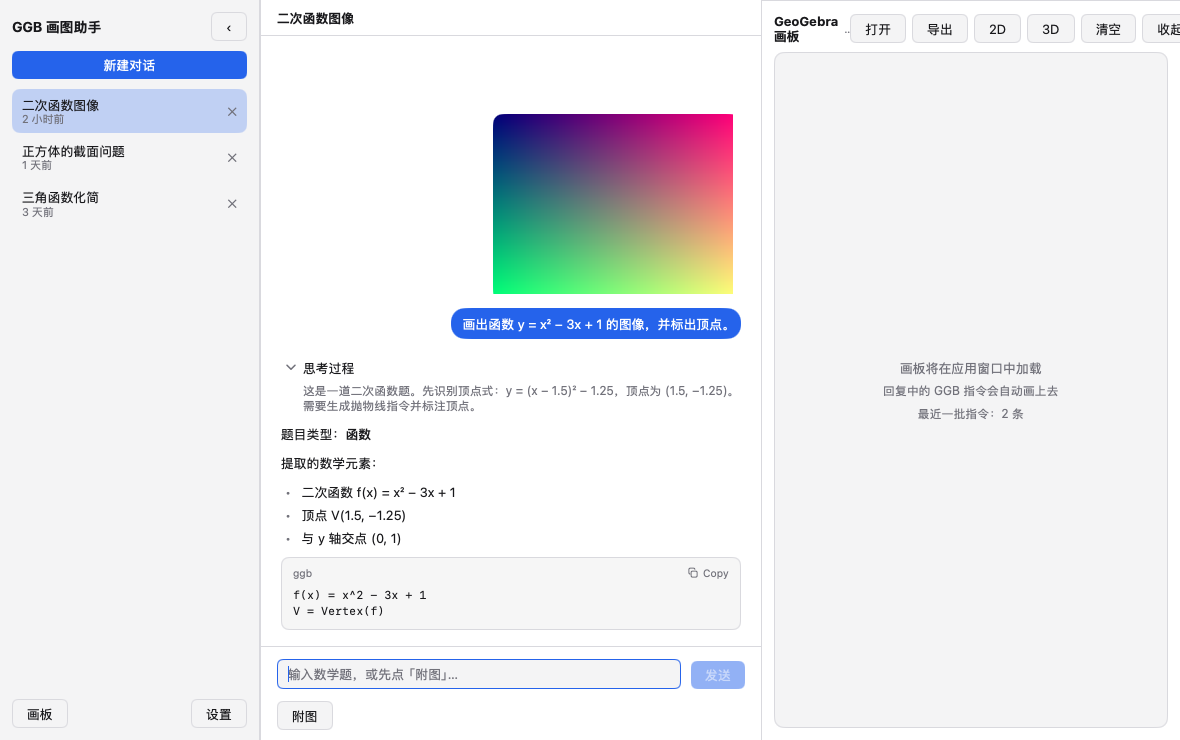
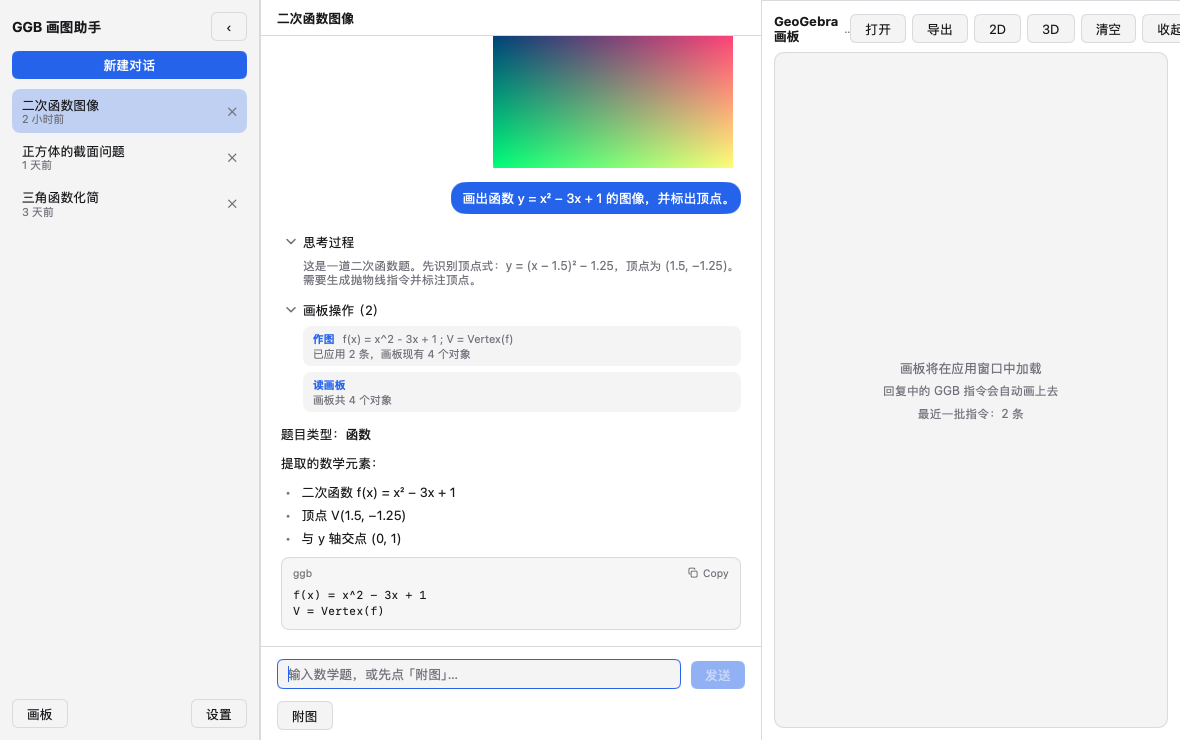
feat(desktop): show board tool calls in the thread
The ReAct loop executed tools silently: the thread only showed the
thinking block and the final text, so a run that drew on the board looked
like plain prose. Every tool call is now recorded (tool name, argument
summary, result summary) and rendered as a collapsible "board actions"
block under the thinking block: the tool label, the commands it ran and
what the board reported back (applied count, failures, object count).
Failures are flagged in the danger colour.

Changed region(s): [[0.2441, 0.0311, 0.6407, 0.5595]]

diff --git a/desktop/view_model.go b/desktop/view_model.go
@@ -380,7 +380,10 @@ func (a *app) streamChat(userText string, reply *uiMsg) {
 		}
 		messages = append(messages, OAMessage{Role: "assistant", Content: assistantContent, ToolCalls: res.ToolCalls})
 		for _, tc := range res.ToolCalls {
+			step := toolStep{Name: tc.Function.Name, Args: summarizeToolArgs(tc.Function.Arguments)}
 			result := a.execTool(tc)
+			step.Result, step.Failed = summarizeToolResult(result)
+			a.mutate(func() { reply.tools = append(reply.tools, step) })
 			messages = append(messages, OAMessage{Role: "tool", ToolCallID: tc.ID, Name: tc.Function.Name, Content: result})
 		}
 	}
@@ -393,6 +396,57 @@ func (a *app) streamChat(userText string, reply *uiMsg) {
 		a.applyHTMLFence(reply)
 		a.saveAll()
 	})
+}
+
+// summarizeToolArgs 把工具参数压成一行可读摘要。
+func summarizeToolArgs(argsJSON string) string {
+	var args struct {
+		Commands    []string `json:"commands"`
+		Perspective string   `json:"perspective"`
+	}
+	if err := json.Unmarshal([]byte(argsJSON), &args); err != nil {
+		return ""
+	}
+	parts := make([]string, 0, len(args.Commands))
+	for _, c := range args.Commands {
+		parts = append(parts, c)
+	}
+	s := strings.Join(parts, " ; ")
+	if args.Perspective == "AT" {
+		s = "[3D] " + s
+	}
+	if len([]rune(s)) > 90 {
+		s = string([]rune(s)[:90]) + "…"
+	}
+	return s
+}
+
+// summarizeToolResult 把工具返回压成一行摘要。
+func summarizeToolResult(result string) (string, bool) {
+	var r struct {
+		Applied int      `json:"applied"`
+		Failed  []string `json:"failed"`
+		Objects int      `json:"objects"`
+		Count   int      `json:"objectCount"`
+		Error   string   `json:"error"`
+	}
+	if err := json.Unmarshal([]byte(result), &r); err != nil {
+		return result, false
+	}
+	if r.Error != "" {
+		return r.Error, true
+	}
+	out := "已应用 " + strconv.Itoa(r.Applied) + " 条"
+	if len(r.Failed) > 0 {
+		out += "，失败 " + strconv.Itoa(len(r.Failed)) + " 条"
+	}
+	if r.Objects > 0 {
+		out += "，画板现有 " + strconv.Itoa(r.Objects) + " 个对象"
+	}
+	if r.Count > 0 {
+		out = "画板共 " + strconv.Itoa(r.Count) + " 个对象"
+	}
+	return out, len(r.Failed) > 0
 }
 
 // execTool 执行模型请求的一个画板工具，返回给模型的 JSON 结果。

diff --git a/desktop/state.go b/desktop/state.go
@@ -199,12 +199,36 @@ type uiMsg struct {
 
 	step      string // 进行中的状态标签
 	done      bool
-	open      bool      // 思考块默认展开
-	started   time.Time // 回复开始时间
-	usedTools bool      // 本条回复用过画板工具（围栏兜底跳过）
+	open      bool       // 思考块默认展开
+	toolsOpen bool       // 工具面板默认展开
+	started   time.Time  // 回复开始时间
+	usedTools bool       // 本条回复用过画板工具（围栏兜底跳过）
+	tools     []toolStep // 画板工具调用记录
 
 	bitmap  *ui.Bitmap // 用户消息的图片（本地预览）
 	dataURL string     // 发给视觉模型的 data URL（不落盘）
+}
+
+// toolStep 是一次画板工具调用的记录，显示在回复里。
+type toolStep struct {
+	Name   string // 工具名
+	Args   string // 参数摘要
+	Result string // 执行结果摘要
+	Failed bool
+}
+
+// toolLabel 给工具名一个中文说法。
+func toolLabel(name string) string {
+	switch name {
+	case "geogebra_run":
+		return "作图"
+	case "geogebra_read":
+		return "读画板"
+	case "geogebra_export":
+		return "导出"
+	default:
+		return name
+	}
 }
 
 // stepLabel 保留 streaming 提示的措辞。

diff --git a/desktop/view.go b/desktop/view.go
@@ -329,6 +329,30 @@ func (a *app) message(c *ui.Context, t *ui.Theme, m *uiMsg) {
 				ui.Text(c, m.thinking).Selectable().FontSize(12).TextColor(t.TextMuted)
 			})
 		}
+		if len(m.tools) > 0 {
+			label := "画板操作（" + strconv.Itoa(len(m.tools)) + "）"
+			ui.Collapsible(c, label, &m.toolsOpen, func() {
+				ui.Column(c).Gap(6).Children(func() {
+					for _, s := range m.tools {
+						ui.Column(c).Gap(2).Padding(6, 10).Radius(8).Background(t.Surface).Children(func() {
+							ui.Row(c).Gap(8).AlignItems(ui.Center).Children(func() {
+								badge := t.Accent
+								if s.Failed {
+									badge = t.Danger
+								}
+								ui.Text(c, toolLabel(s.Name)).FontSize(11).Bold().TextColor(badge)
+								if s.Args != "" {
+									ui.Text(c, s.Args).FontSize(11).TextColor(t.TextMuted).Grow(1)
+								}
+							})
+							if s.Result != "" {
+								ui.Text(c, s.Result).FontSize(11).TextColor(t.TextMuted)
+							}
+						})
+					}
+				})
+			})
+		}
 		if m.errText != "" {
 			ui.Text(c, m.errText).Selectable().TextColor(t.Danger).FontSize(13)
 		}

diff --git a/desktop/view_test.go b/desktop/view_test.go
@@ -51,7 +51,11 @@ func demoThread() []*uiMsg {
 	return []*uiMsg{
 		{id: "u1", role: roleUser, text: "画出函数 y = x² − 3x + 1 的图像，并标出顶点。", done: true},
 		{
-			id: "a1", role: roleAssistant, done: true, open: true,
+			id: "a1", role: roleAssistant, done: true, open: true, toolsOpen: true, usedTools: true,
+			tools: []toolStep{
+				{Name: "geogebra_run", Args: "f(x) = x^2 - 3x + 1 ; V = Vertex(f)", Result: "已应用 2 条，画板现有 4 个对象"},
+				{Name: "geogebra_read", Args: "", Result: "画板共 4 个对象"},
+			},
 			thinking: "这是一道二次函数题。先识别顶点式：y = (x − 1.5)² − 1.25，顶点为 (1.5, −1.25)。需要生成抛物线指令并标注顶点。",
 			text:     "题目类型：**函数**\n\n提取的数学元素：\n- 二次函数 f(x) = x² − 3x + 1\n- 顶点 V(1.5, −1.25)\n- 与 y 轴交点 (0, 1)\n\n```ggb\nf(x) = x^2 - 3x + 1\nV = Vertex(f)\n```",
 			ggb:      "f(x) = x^2 - 3x + 1\nV = Vertex(f)",
